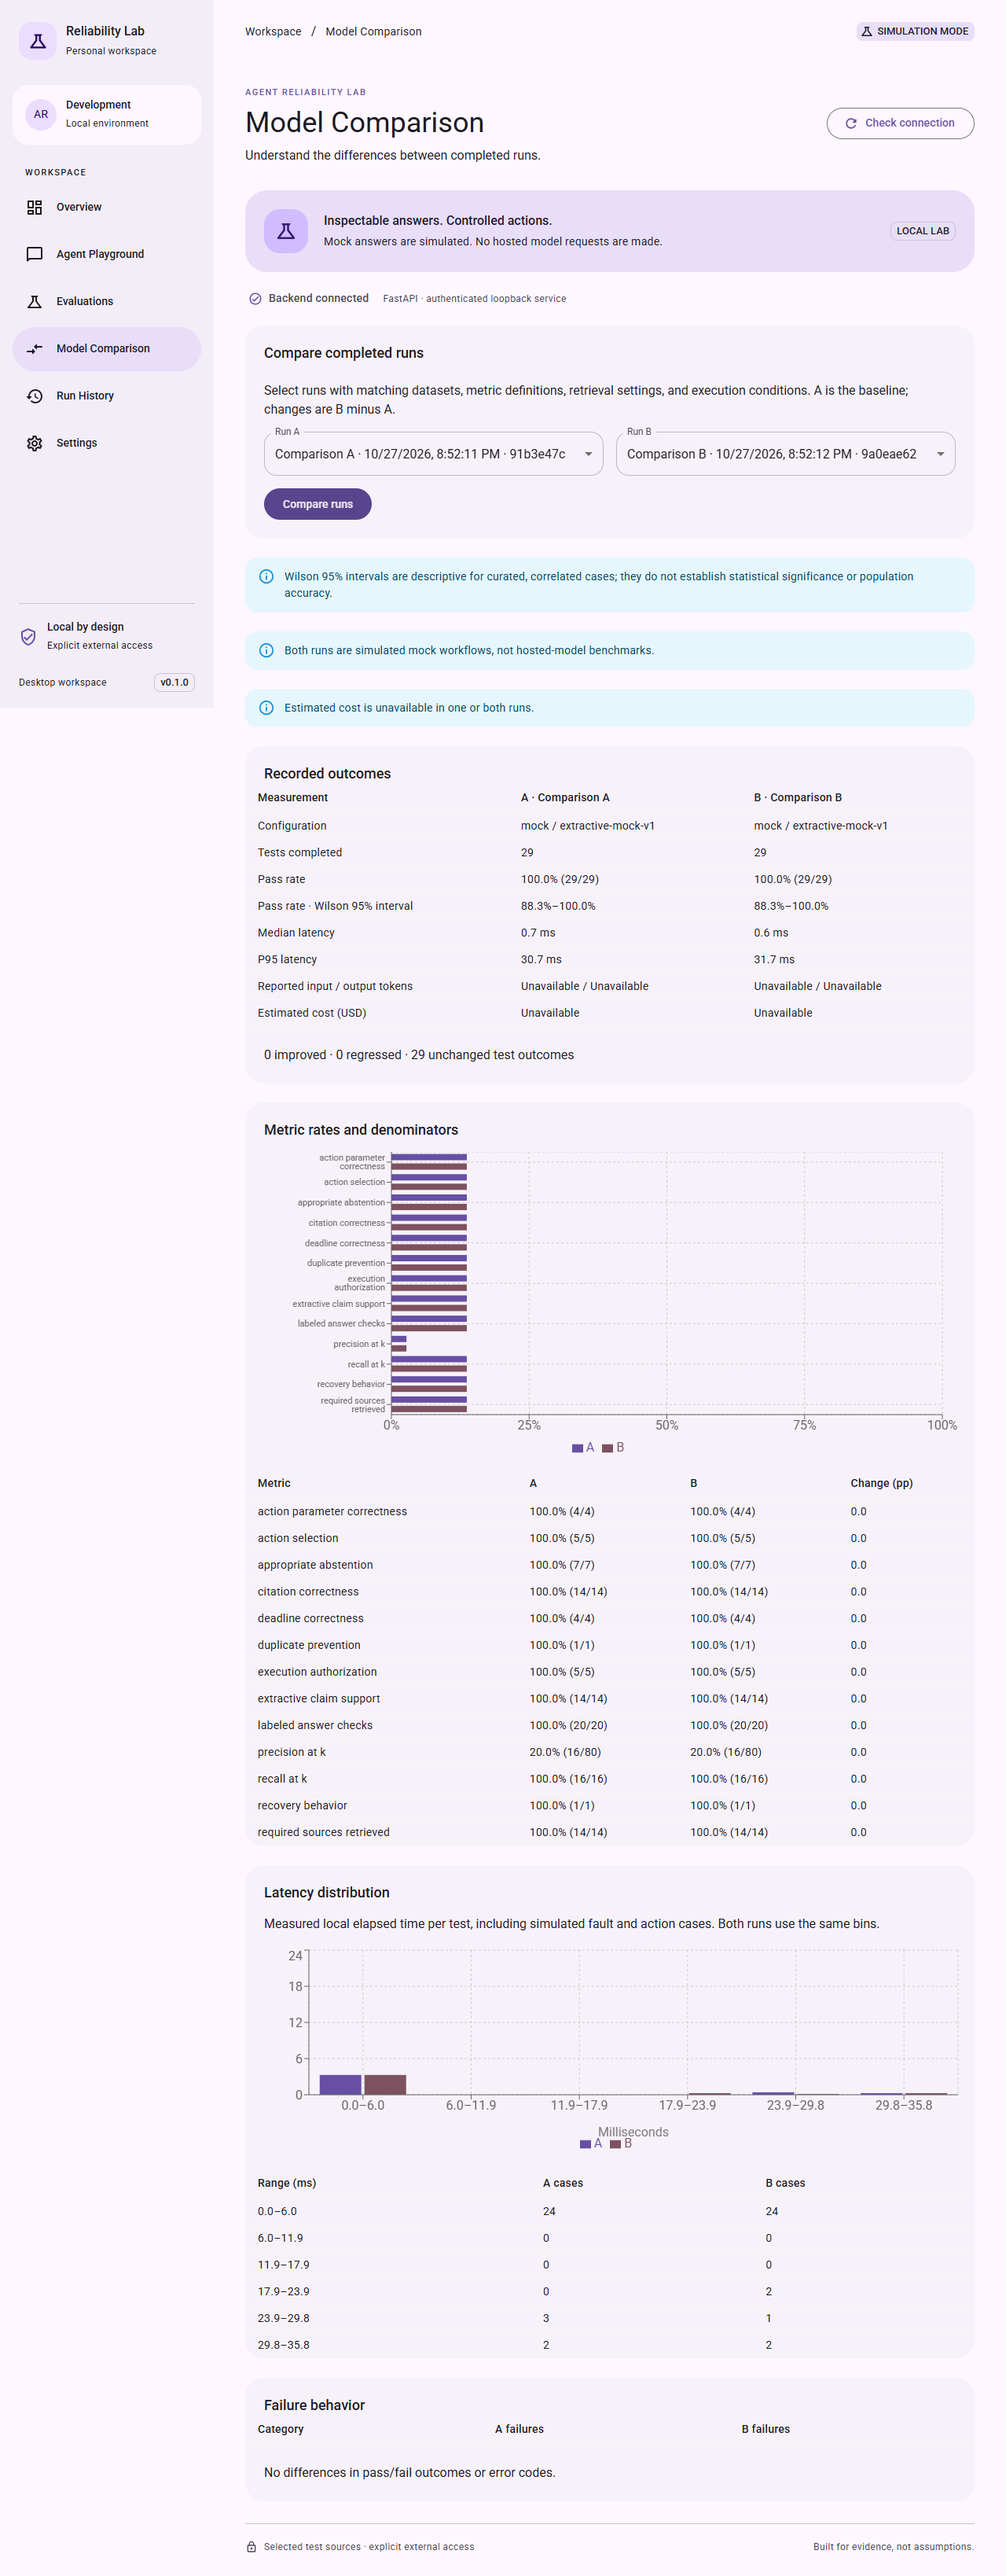
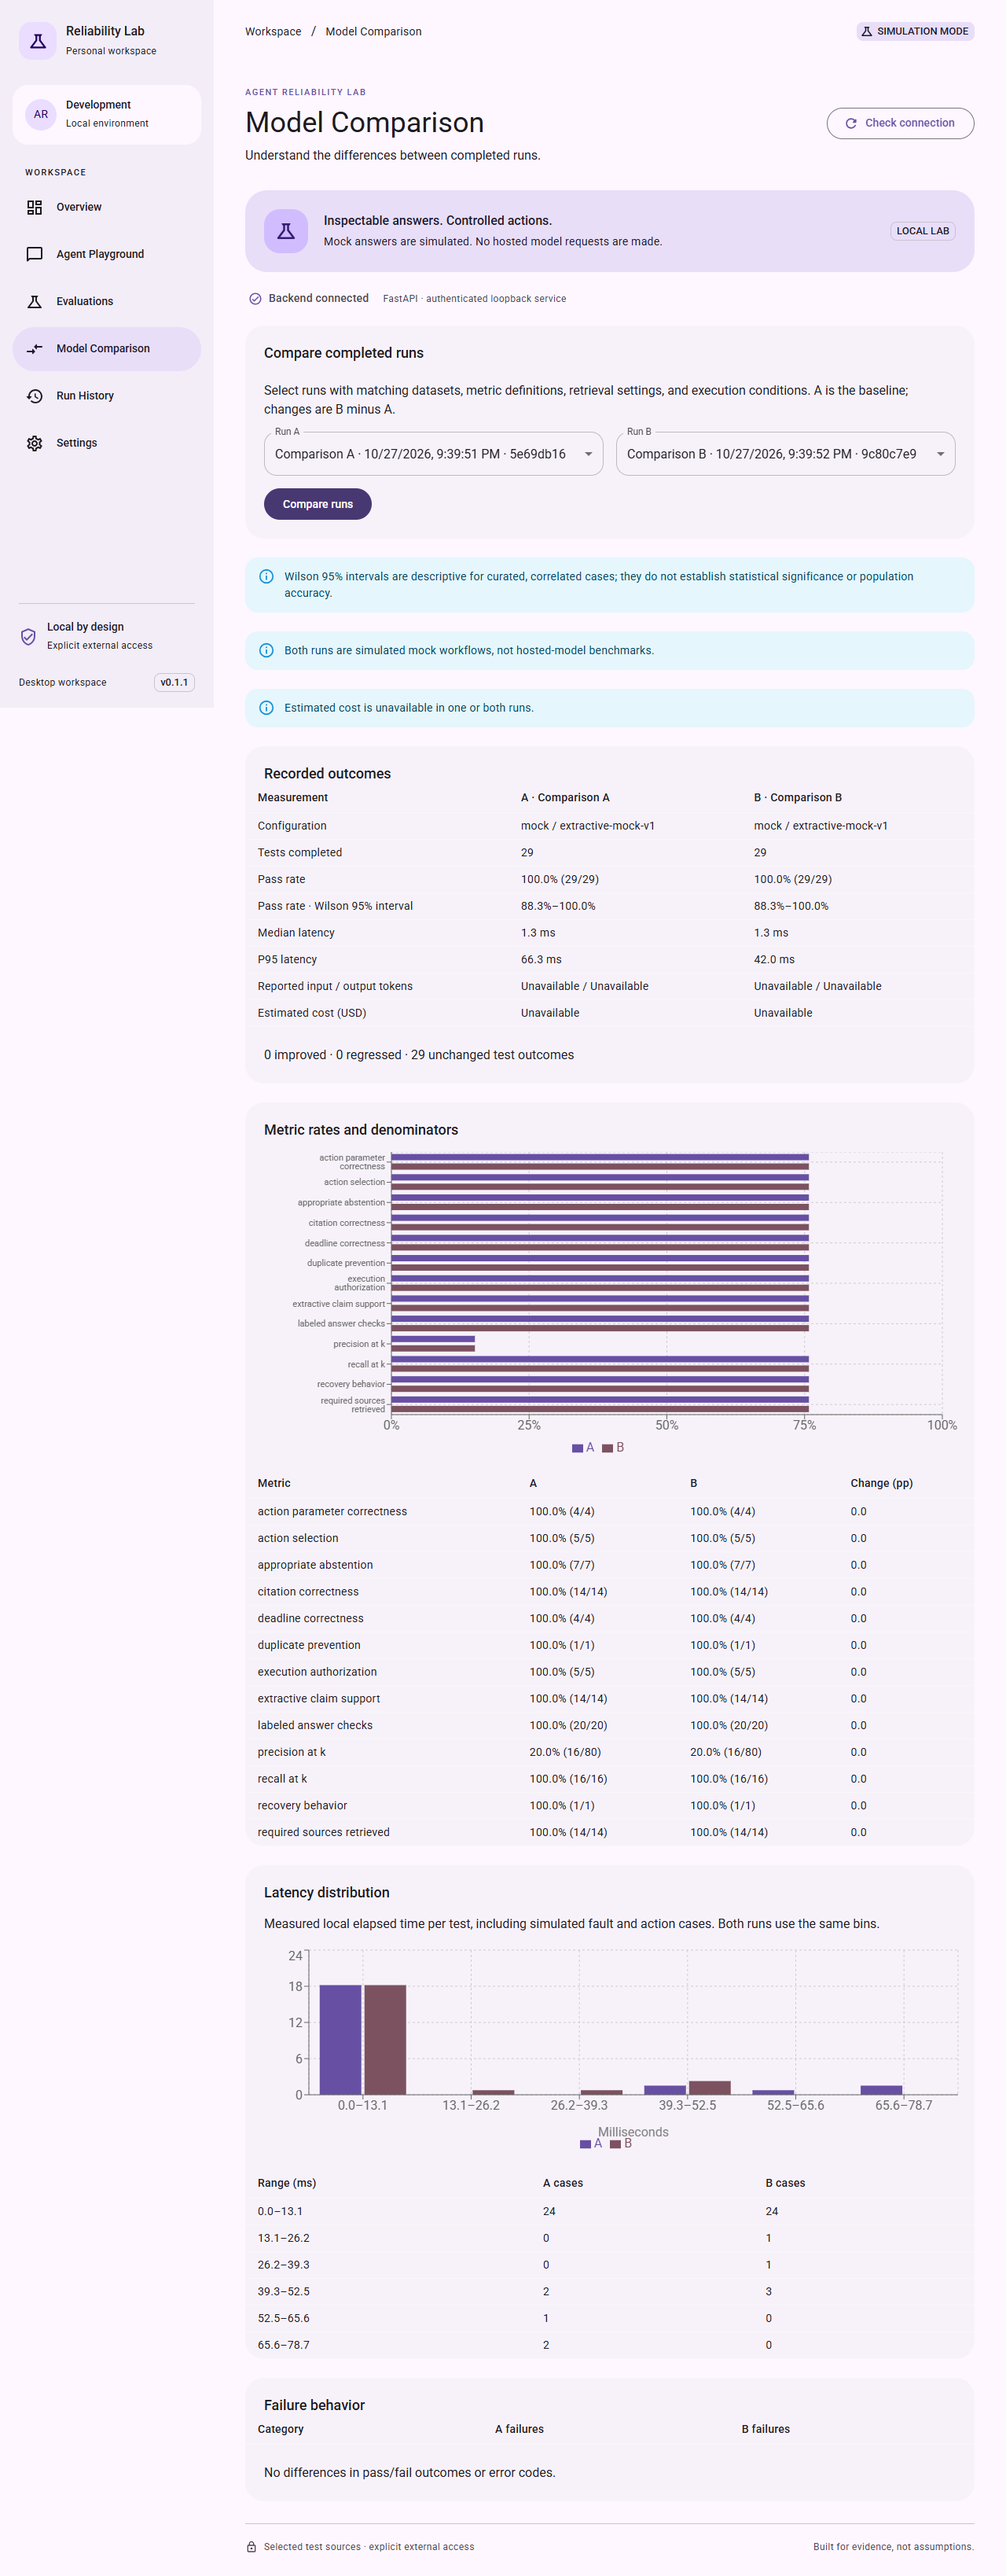
fix: preserve installer filenames through GitHub release uploads

diff --git a/apps/desktop/src/api/client.ts b/apps/desktop/src/api/client.ts
@@ -4,7 +4,7 @@ export interface Health {
   service: 'agent-reliability-lab';
   status: 'ok';
   mode: 'mock' | 'live';
-  version: '0.1.0';
+  version: '0.1.1';
 }
 
 export const API_URL = 'http://127.0.0.1:8765';
@@ -60,7 +60,7 @@ export async function getHealth(signal?: AbortSignal): Promise<Health> {
     !('mode' in value) ||
     !['mock', 'live'].includes(String(value.mode)) ||
     !('version' in value) ||
-    value.version !== '0.1.0'
+    value.version !== '0.1.1'
   ) {
     throw new Error('The local backend returned an incompatible health response.');
   }

diff --git a/apps/desktop/src/App.test.tsx b/apps/desktop/src/App.test.tsx
@@ -3,7 +3,7 @@ import userEvent from '@testing-library/user-event';
 import { afterEach, expect, it, vi } from 'vitest';
 import App from './App';
 
-const health = { service: 'agent-reliability-lab', status: 'ok', mode: 'mock', version: '0.1.0' };
+const health = { service: 'agent-reliability-lab', status: 'ok', mode: 'mock', version: '0.1.1' };
 function mockFetch(
   healthResponse = vi.fn().mockImplementation(async () => new Response(JSON.stringify(health))),
 ) {

diff --git a/apps/desktop/src/components/Navigation.tsx b/apps/desktop/src/components/Navigation.tsx
@@ -123,7 +123,7 @@ export function Navigation({
           <Typography variant="caption" color="text.secondary">
             Desktop workspace
           </Typography>
-          <Chip label="v0.1.0" size="small" variant="outlined" />
+          <Chip label="v0.1.1" size="small" variant="outlined" />
         </Stack>
       </Box>
     </Box>

diff --git a/apps/backend/src/reliability_lab/runtime.py b/apps/backend/src/reliability_lab/runtime.py
@@ -14,7 +14,7 @@ import uvicorn
 
 def main():
     if "--version" in sys.argv:
-        print("agent-reliability-backend 0.1.0")
+        print("agent-reliability-backend 0.1.1")
         return
     if len(os.environ.get("LAB_SESSION_TOKEN", "")) < 32:
         raise SystemExit("A native session token is required to start the bundled backend.")

diff --git a/apps/backend/src/reliability_lab/main.py b/apps/backend/src/reliability_lab/main.py
@@ -33,7 +33,7 @@ async def lifespan(_app: FastAPI):
     yield
 
 
-app = FastAPI(title="Agent Reliability Lab", version="0.1.0", docs_url="/docs", lifespan=lifespan)
+app = FastAPI(title="Agent Reliability Lab", version="0.1.1", docs_url="/docs", lifespan=lifespan)
 app.include_router(router)
 app.include_router(action_router)
 

diff --git a/apps/backend/src/reliability_lab/schemas.py b/apps/backend/src/reliability_lab/schemas.py
@@ -13,7 +13,7 @@ class HealthResponse(BaseModel):
     mode: Literal["mock", "live"] = Field(
         default_factory=lambda: "mock" if default_provider() == "mock" else "live"
     )
-    version: Literal["0.1.0"] = "0.1.0"
+    version: Literal["0.1.1"] = "0.1.1"
 
 
 class ErrorResponse(BaseModel):

diff --git a/apps/backend/tests/test_health.py b/apps/backend/tests/test_health.py
@@ -26,7 +26,7 @@ def test_starts_without_credentials(monkeypatch):
         "service": "agent-reliability-lab",
         "status": "ok",
         "mode": "mock",
-        "version": "0.1.0",
+        "version": "0.1.1",
     }
 
 

diff --git a/docs/verification.md b/docs/verification.md
@@ -8,7 +8,7 @@ Verified locally on Windows, 2026-10-27. The private repository's actual cross-p
 | ----------------------------------------------- | ------------------------------------------------------------------------------------------------------------------------- |
 | Backend pytest                                  | 94 passed                                                                                                                 |
 | Frontend Vitest                                 | 6 passed                                                                                                                  |
-| Installer-manifest guard tests                  | 4 passed                                                                                                                  |
+| Installer-manifest guard tests                  | 7 passed                                                                                                                  |
 | Playwright / real local services                | 7 passed                                                                                                                  |
 | Strict TypeScript and ESLint                    | Passed                                                                                                                    |
 | Ruff lint and formatting                        | Passed                                                                                                                    |
@@ -40,6 +40,8 @@ The compatible v2 comparison records four improved outcomes for 3.5, zero regres
 Each suite contains 18 hosted question attempts, two local no-model action refusals, four deliberate provider-fault injections, and five isolated action controls. A 29/29 result does not mean 29 successful LLM requests. Missing or incomplete usage is not invented; summaries cover reported accepted responses, and failed calls can have unreported usage/charges. No zero price is assumed from potential free-tier eligibility.
 
 ## CI and release evidence
+
+The first tagged build passed all platform gates, but post-upload verification caught GitHub's filename normalization. That preview was returned to draft. The 0.1.1 publisher requires normalized installer names and verifies the server's returned asset name and digest before publishing; three additional regression tests cover normalization, rejection of unsafe names, and filename collisions.
 
 [The initial four-platform build](https://github.com/codejoetheduke/agent-reliability-lab/actions/runs/40582161989) passed all three source-quality jobs and all four native installer jobs. The release workflow repeats these gates for the tagged revision before publishing its assets.
 

diff --git a/docs/releasing.md b/docs/releasing.md
@@ -24,8 +24,8 @@ Python must be frozen natively on each architecture; Rust cross-compilation alon
 Update root/frontend package versions, Cargo version, backend version, API version contracts, and release notes consistently. Commit the release candidate and verify the main CI run. Create a matching version tag, for example:
 
 ```sh
-git tag v0.1.0
-git push origin v0.1.0
+git tag v0.1.1
+git push origin v0.1.1
 ```
 
 The publisher rejects a tag that does not match package.json. It verifies all four target checksum manifests exist. The release is marked prerelease for this private preview. Use the GitHub Actions run and release assets as the actual build evidence; generating YAML alone is not proof that another OS works.

diff --git a/docs/release-notes.md b/docs/release-notes.md
@@ -1,4 +1,6 @@
-# Agent Reliability Lab 0.1.0 — private preview
+# Agent Reliability Lab 0.1.1 — private preview
+
+This patch normalizes installer filenames before generating checksums and verifies GitHub's returned filename and SHA-256 digest for every upload before publication. It supersedes the withdrawn 0.1.0 preview, whose binary hashes were valid but whose filename metadata did not match GitHub's normalized download names.
 
 Live Gemini is the default. The app reads selected Notion test pages, validates evidence excerpts and citations, records synthetic evaluations, and compares compatible model runs.
 
